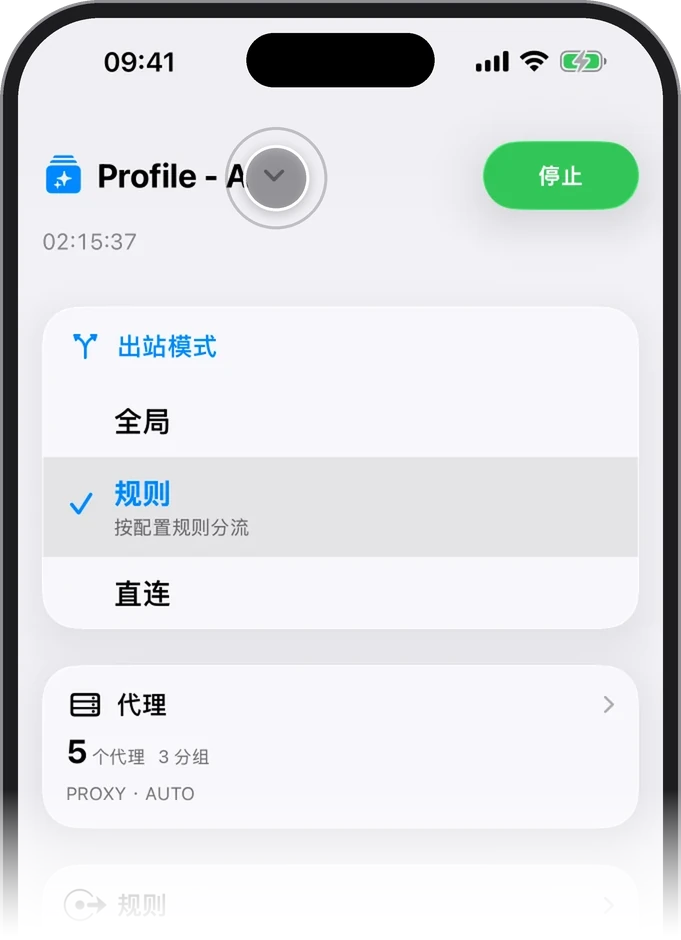
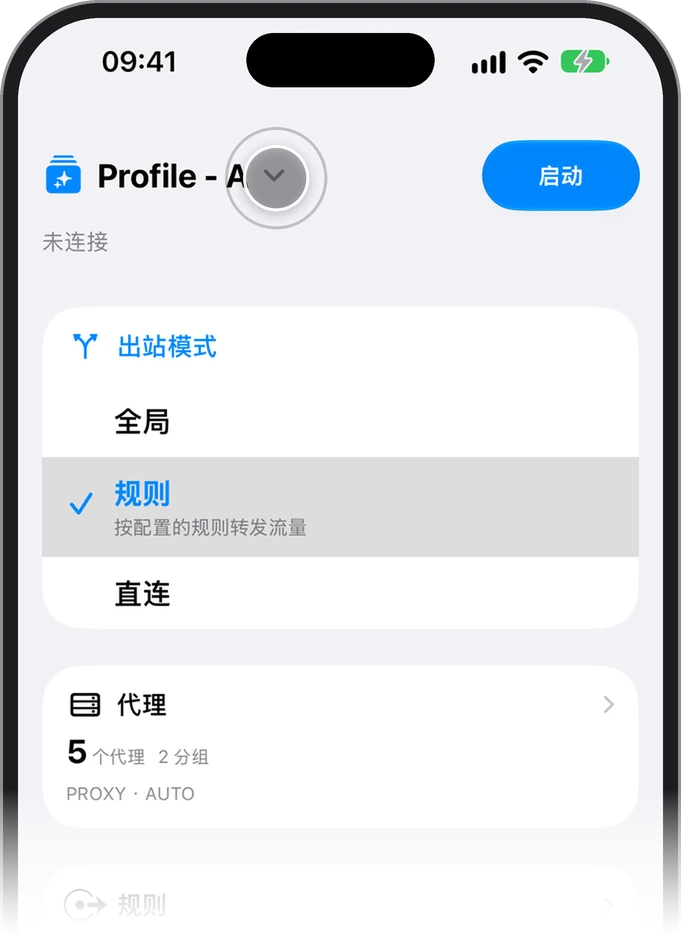
docs: show the connect steps from a disconnected Home
Home slices now use fresh full-resolution iOS 1.0.14 screenshots. Steps 1
and 2 start from Home before connecting, and step 3 goes from START to the
connected Home showing STOP and the time connected.

Claude-Session: https://claude.ai/code/session_01SGU8a8wqsMHUVLi4ACkhzR

diff --git a/docs/zh/guide/index.md b/docs/zh/guide/index.md
@@ -54,7 +54,7 @@ iPhone 在首页点左上角的配置名，进入“配置中心”；iPad 与 M
 扫描二维码。Apple TV 使用 HTTP 或 HTTPS Profile 地址。
 
 <figure class="guide-steps">
-  <img src="/screenshots/guide/connect-1a-zh.webp" alt="iPhone 首页，左上角的配置名" width="681" height="940" loading="lazy">
+  <img src="/screenshots/guide/connect-1a-zh.webp" alt="未连接的 iPhone 首页，左上角的配置名" width="681" height="940" loading="lazy">
   <svg viewBox="0 0 10 18" aria-hidden="true"><path d="M2 2l6 7-6 7"/></svg>
   <img src="/screenshots/guide/connect-1b-zh.webp" alt="配置中心的“添加配置”卡片" width="681" height="940" loading="lazy">
   <span>点首页左上角的配置名</span>
@@ -67,7 +67,7 @@ iPhone 在首页点左上角的配置名，进入“配置中心”；iPad 与 M
 延迟并选择线路。自动选择类策略组会按照配置中的健康检查自行决定结果。
 
 <figure class="guide-steps">
-  <img src="/screenshots/guide/connect-2a-zh.webp" alt="iPhone 首页的“代理”卡片" width="681" height="940" loading="lazy">
+  <img src="/screenshots/guide/connect-2a-zh.webp" alt="未连接的 iPhone 首页，“代理”卡片" width="681" height="940" loading="lazy">
   <svg viewBox="0 0 10 18" aria-hidden="true"><path d="M2 2l6 7-6 7"/></svg>
   <img src="/screenshots/guide/connect-2b-zh.webp" alt="策略组里正在使用的线路" width="681" height="940" loading="lazy">
   <span>点首页的“代理”</span>
@@ -80,11 +80,11 @@ iPhone 在首页点左上角的配置名，进入“配置中心”；iPad 与 M
 推荐“规则（Rule）”模式：每条连接按照当前配置决定直连、使用代理或拒绝。
 
 <figure class="guide-steps">
-  <img src="/screenshots/guide/connect-3a-zh.webp" alt="出站模式里的“规则”" width="681" height="940" loading="lazy">
+  <img src="/screenshots/guide/connect-3a-zh.webp" alt="未连接的首页，右上角是“启动”按钮" width="681" height="940" loading="lazy">
   <svg viewBox="0 0 10 18" aria-hidden="true"><path d="M2 2l6 7-6 7"/></svg>
-  <img src="/screenshots/guide/connect-3b-zh.webp" alt="首页右上角的连接按钮，连上后显示“停止”" width="681" height="940" loading="lazy">
-  <span>出站模式选“规则”</span>
-  <span>点右上角的按钮连接</span>
+  <img src="/screenshots/guide/connect-3b-zh.webp" alt="已连接的首页，按钮变成“停止”，下面显示连接时长" width="681" height="940" loading="lazy">
+  <span>点右上角的“启动”</span>
+  <span>连上后显示“停止”和连接时长</span>
 </figure>
 
 ::: tip 需要另外开启 TUN 模式吗？

diff --git a/docs/guide/index.md b/docs/guide/index.md
@@ -57,7 +57,7 @@ iPhone and iPad can also scan a QR code. Apple TV uses an HTTP or HTTPS Profile
 URL.
 
 <figure class="guide-steps">
-  <img src="/screenshots/guide/connect-1a-en.webp" alt="iPhone Home, with the Profile name at the top left" width="681" height="940" loading="lazy">
+  <img src="/screenshots/guide/connect-1a-en.webp" alt="iPhone Home before connecting, with the Profile name at the top left" width="681" height="940" loading="lazy">
   <svg viewBox="0 0 10 18" aria-hidden="true"><path d="M2 2l6 7-6 7"/></svg>
   <img src="/screenshots/guide/connect-1b-en.webp" alt="The Add Profile card in Profile Center" width="681" height="940" loading="lazy">
   <span>Tap the Profile name on Home</span>
@@ -71,7 +71,7 @@ you want to change, check latency, and select a route. Automatic groups follow
 the health-check behavior defined by the Profile.
 
 <figure class="guide-steps">
-  <img src="/screenshots/guide/connect-2a-en.webp" alt="The Proxies card on iPhone Home" width="681" height="940" loading="lazy">
+  <img src="/screenshots/guide/connect-2a-en.webp" alt="The Proxies card on iPhone Home before connecting" width="681" height="940" loading="lazy">
   <svg viewBox="0 0 10 18" aria-hidden="true"><path d="M2 2l6 7-6 7"/></svg>
   <img src="/screenshots/guide/connect-2b-en.webp" alt="The route in use in a policy group" width="681" height="940" loading="lazy">
   <span>Tap Proxies on Home</span>
@@ -86,11 +86,11 @@ Profile decides whether each connection goes direct, uses a proxy, or is
 rejected.
 
 <figure class="guide-steps">
-  <img src="/screenshots/guide/connect-3a-en.webp" alt="Rule under Outbound Mode" width="681" height="940" loading="lazy">
+  <img src="/screenshots/guide/connect-3a-en.webp" alt="Home before connecting, with the START button at the top right" width="681" height="940" loading="lazy">
   <svg viewBox="0 0 10 18" aria-hidden="true"><path d="M2 2l6 7-6 7"/></svg>
-  <img src="/screenshots/guide/connect-3b-en.webp" alt="The connect button at the top right of Home, which reads Stop once connected" width="681" height="940" loading="lazy">
-  <span>Choose Rule under Outbound Mode</span>
-  <span>Tap the top-right button to connect</span>
+  <img src="/screenshots/guide/connect-3b-en.webp" alt="Home once connected: the button reads STOP, with the time connected below" width="681" height="940" loading="lazy">
+  <span>Tap START at the top right</span>
+  <span>Once connected, it shows STOP and the time connected</span>
 </figure>
 
 ::: tip Do I need a separate TUN mode?
